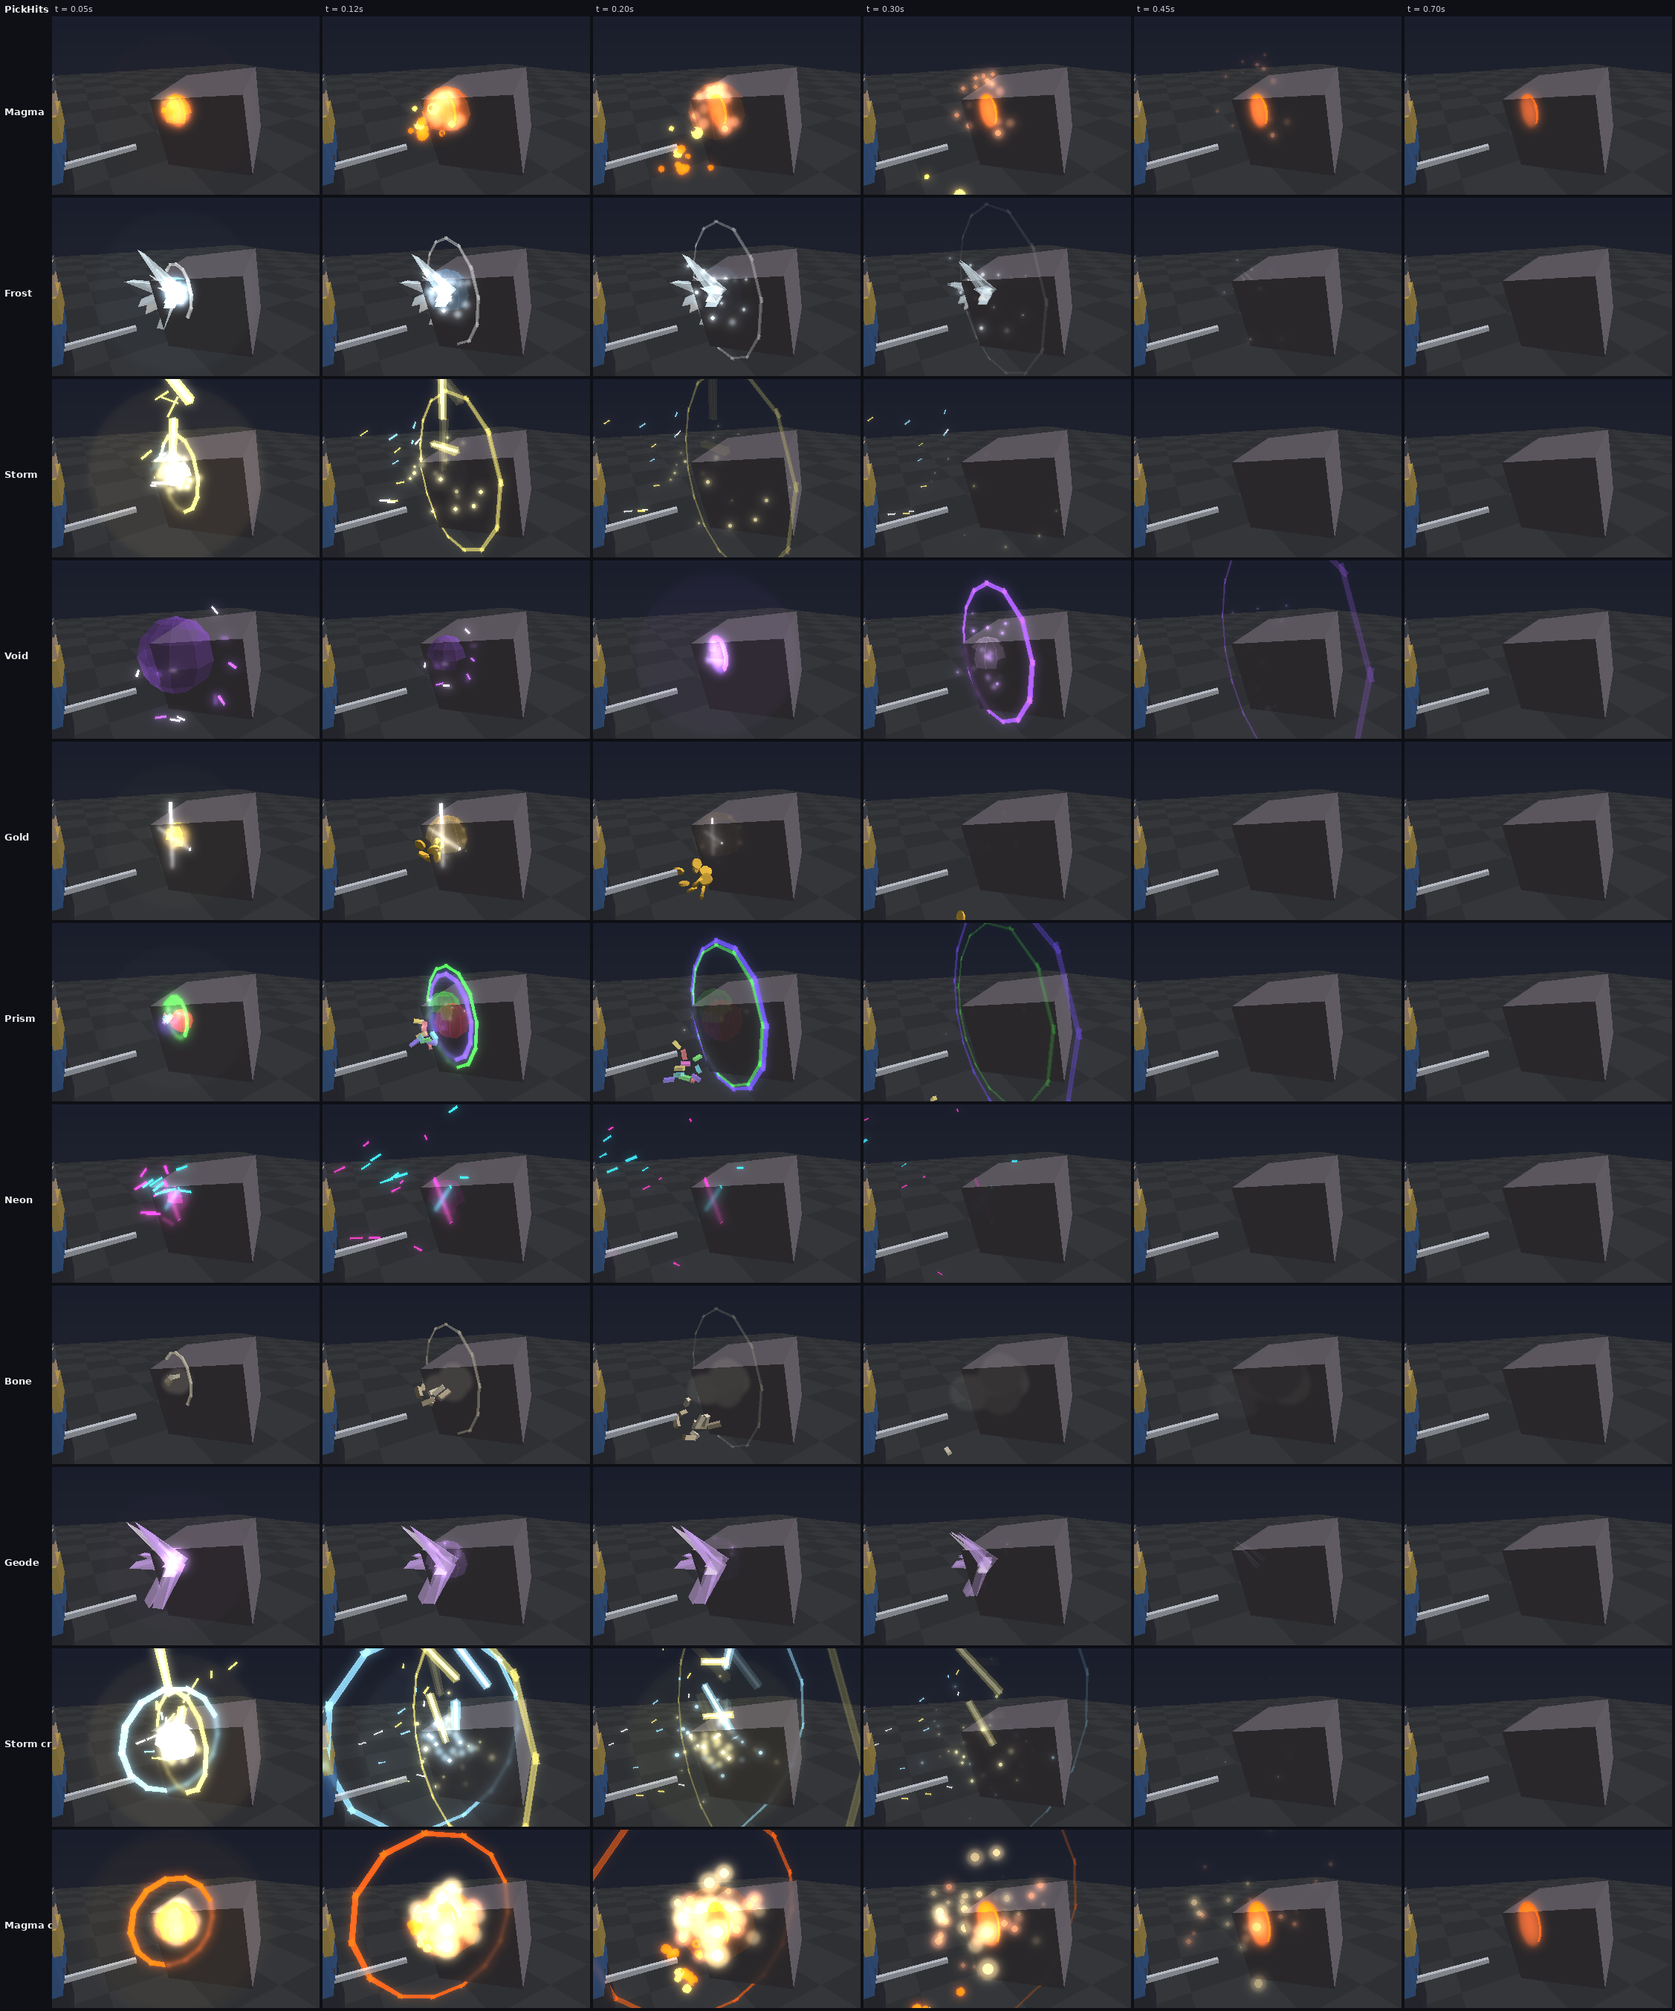
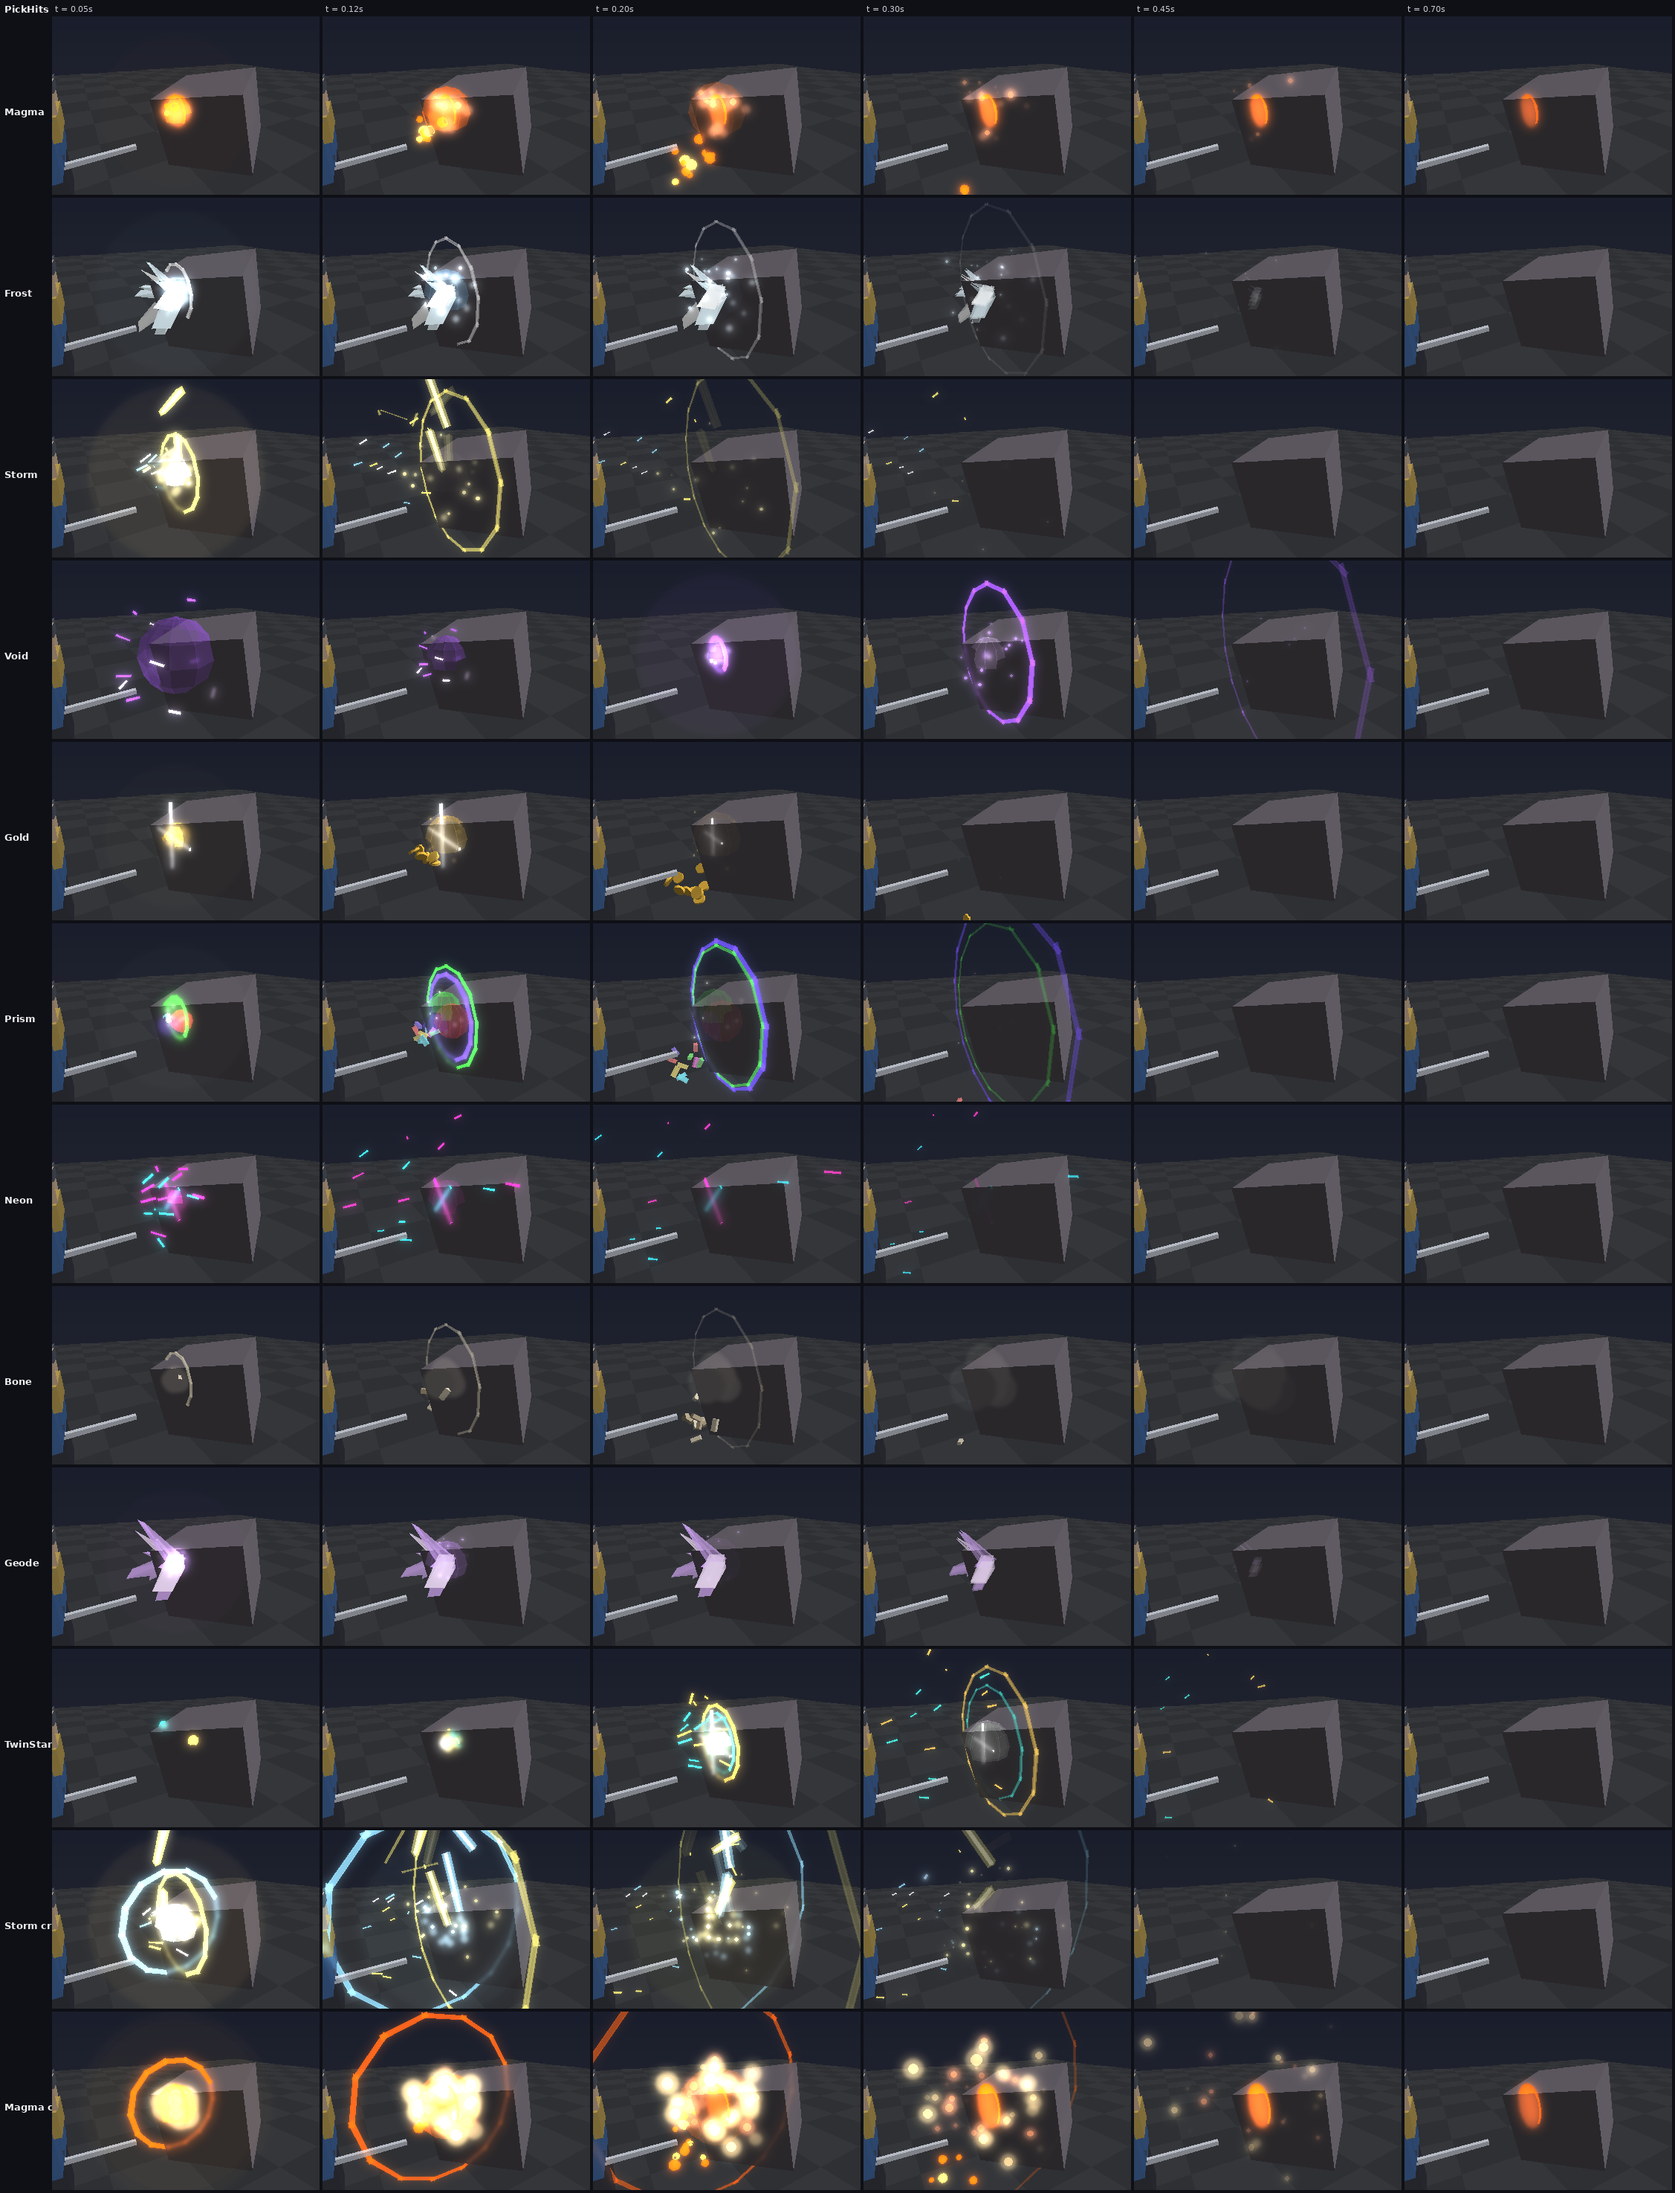
Bring two friends: the Twin Star pickaxe
A new invite tier between the first friend and the third: two friends who
join earn Twin Star, a Legendary pickaxe skin that's never sold. It's a
night-blue pick split into twin prongs, gold and teal, with two stars
circling its head; every hit crashes a gold star and a teal one together
into a burst. It goes straight into your hand, and everyone at the
Outpost sees it.

The Free tab's tier row now sizes its tiles for however many tiers there
are, so the five fit beside the friend count.

Claude-Session: https://claude.ai/code/session_01M9AaiFqQ2dWL5tTu8tuKaL

diff --git a/docs/pickaxe-skins.md b/docs/pickaxe-skins.md
@@ -1,6 +1,6 @@
 # Pickaxe skins (2026-10-14)
 
-Nine pickaxe skins, a new cosmetic kind (`Pick`). A skin changes how your pick
+Ten pickaxe skins, a new cosmetic kind (`Pick`). A skin changes how your pick
 looks and how its hits land. It never changes what it does: the pick you mine
 with (Survey, Titan or Plasma) keeps its swings and power. With no skin, you
 hold that pick in its own colour, as before.
@@ -16,6 +16,7 @@ hold that pick in its own colour, as before.
 | Gilded Prospector | Ultra Rare | Masterwork Crate | Polished gold, rubies and an emerald | Coins pop out spinning, a star glints |
 | Amethyst Geode | Rare | Geode Crate | A rough rock knocked open, an amethyst cluster for a spike | Amethyst crystals snap out of the rock |
 | Bone Crusher | Uncommon | Geode Crate | A tusk lashed to a spine, a skull for a hammer | Bone chips and a puff of dust |
+| Twin Star | Legendary | Invite 2 friends (never sold) | Night-blue, twin gold and teal prongs, two stars circling the head | A gold star and a teal one crash together and burst |
 
 Each skin has its own particles, light, and a trail that streaks through every
 swing. A critical hit adds the most to its effect. Everyone at the Outpost sees
